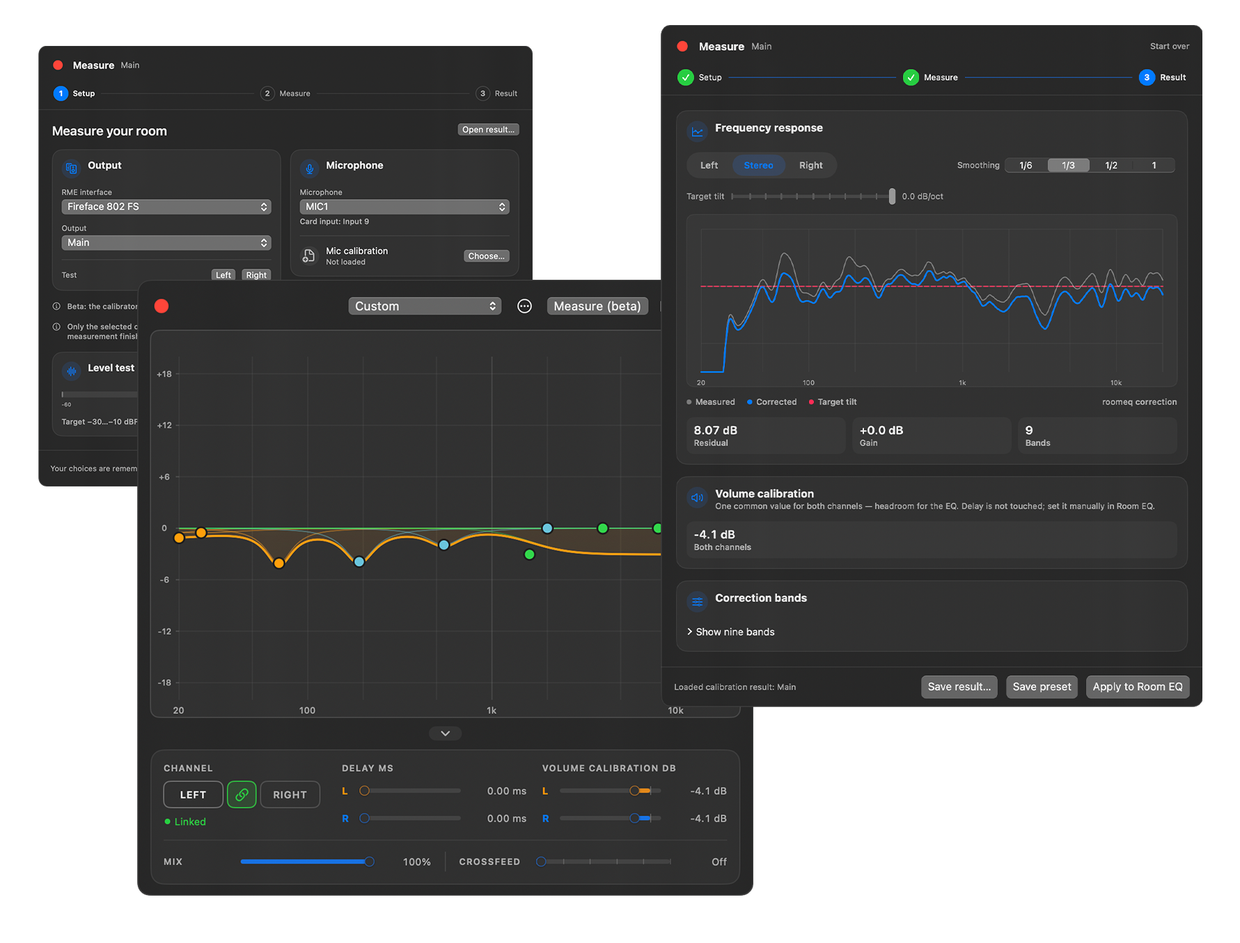
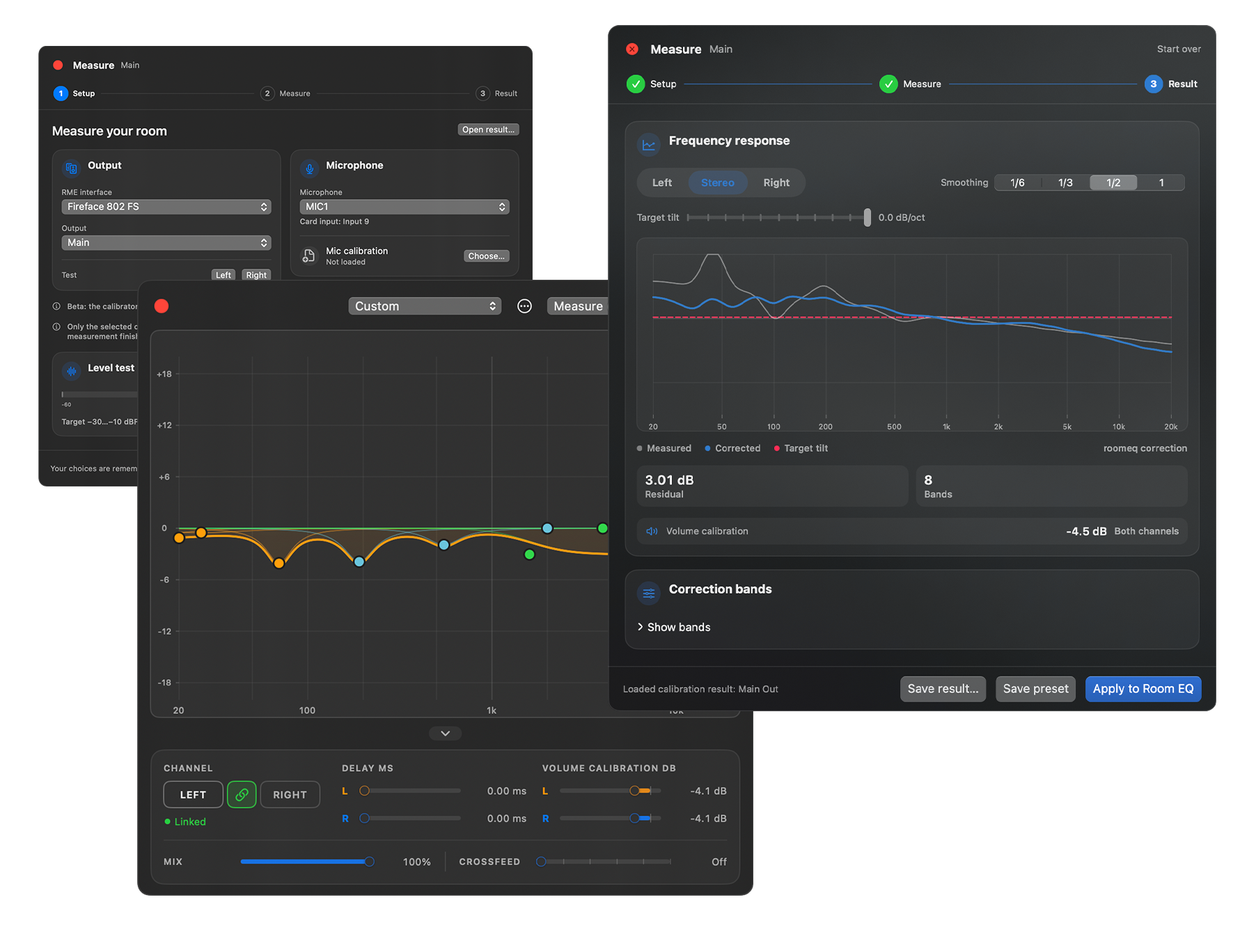
Finish the 4.1 site copy and show the new Measure capture
The German what's-new section was still English: translate it, and localize
the alt texts and ARIA labels that the script never touched. Drop the dead
4.0 strings and the size claims, use the native macOS pane names for
Accessibility, and version the screenshot URL so the new capture replaces
the cached one on the site and in the README.

diff --git a/docs/i18n.js b/docs/i18n.js
@@ -1,5 +1,7 @@
 // RME Control — language switching. English is the source; Russian and German
 // are chosen automatically from the browser and can be switched by hand.
+// Every language carries the whole dictionary: text, alt texts, ARIA labels,
+// the page title and the meta description.
 (function () {
   var dict = {
     en: {
@@ -7,6 +9,7 @@
       "meta.desc": "Free, open-source macOS menu bar control for RME interfaces: TotalMix volume and output switching, Room EQ, room calibration, headphone presets, input and output processing.",
       "nav.new": "What's new", "nav.screens": "Screens",
       "nav.features": "Features", "nav.install": "Install", "nav.site": "Website", "nav.download": "Download 4.1",
+      "nav.sections": "Sections", "nav.language": "Language", "nav.menu": "Menu",
       "hero.title": "TotalMix in the menu bar",
       "hero.sub": "Free, open-source control for TotalMix FX: volume and output switching, Room EQ and calibration, headphone presets — from the menu bar.",
       "hero.download": "Download 4.1", "hero.source": "Read the source", "hero.forum": "RME forum",
@@ -15,7 +18,7 @@
       "new.title": "New in version 4.1",
       "new.module.kicker": "Measure",
       "new.module.title": "A module you download",
-      "new.module.text": "Measure is now a separate module: install it from Settings → Modules, remove it to free 82 MB. The app itself is 14 MB.",
+      "new.module.text": "Measure is now a separate module: install it from Settings → Modules.",
       "new.presets.kicker": "Presets",
       "new.presets.title": "The whole app in one preset",
       "new.presets.text": "Presets capture channels, equalizers, dynamics, Room EQ, faders and Control Room buttons and restore all of it. Export to a file, import on another Mac.",
@@ -28,22 +31,14 @@
       "new.measure11.kicker": "Measure 1.1",
       "new.measure11.title": "Measurement engine update",
       "new.measure11.text": "Clear error handling, a smoother measurement flow and an algorithm aligned with the engine author's recommendations.",
-      "new.eq.kicker": "Room EQ",
-      "new.eq.title": "Fully carried over from TotalMix",
-      "new.eq.text": "Nine bands on every output, with Mix and Crossfeed right inside the Room EQ window.",
-      "new.hp.kicker": "Headphones",
-      "new.hp.title": "Presets for popular headphones",
-      "new.hp.text": "A large library of presets for the most popular headphones. Pick a model and the curve lands in Room EQ.",
-      "new.stat.brands": "brands",
-      "new.stat.models": "models",
-      "new.engine.kicker": "Correction engine",
-      "new.engine.title": "Correction system",
-      "new.engine.text": "Measure both speakers, get left, right and stereo corrections and apply them to Room EQ. Save your own calibration presets; microphone calibration files are supported.",
       "screens.eyebrow": "Screens", "screens.title": "What the app looks like",
       "shot.app.name": "RME Control",
       "shot.app": "The mixer in the menu bar, the channel EQ, the compressor and the level window.",
+      "shot.popover.alt": "RME Control menu bar popover",
       "shot.product.name": "Measure and Room EQ",
       "shot.product": "Setup, the measurement, the result and the Room EQ that receives it.",
+      "shot.windows.alt": "RME Control windows",
+      "shot.measure.alt": "Measure setup, Room EQ and the measurement result",
       "features.eyebrow": "Features", "features.title": "Everything in the app",
       "features.lead": "RME Control is a free, open-source macOS utility that controls the TotalMix FX mixer for RME audio interfaces straight from the Mac menu bar. It saves you from opening the main app window for everyday settings.",
       "feat.out.kicker": "Outputs",
@@ -83,6 +78,7 @@
       "specs.languages": "Interface", "specs.languages.v": "14 languages",
       "specs.license": "License", "specs.source": "Source",
       "foot.note": "A free, open-source menu bar controller for TotalMix FX, written in Swift.",
+      "foot.links": "Elsewhere",
       "foot.repo": "Repository", "foot.releases": "Releases", "foot.license": "MIT license",
       "foot.legal": "RME, TotalMix and the RME logo are trademarks of RME Audio AG. This is an independent tool, not affiliated with or endorsed by RME Audio.",
       "foot.credits": "Calibration engines and headphone data:",
@@ -92,6 +88,7 @@
       "meta.desc": "Бесплатное открытое управление TotalMix для RME из строки меню macOS: громкость и переключение выходов, Room EQ, калибровка комнаты, пресеты наушников, обработка входов и выходов.",
       "nav.new": "Что нового", "nav.screens": "Экраны",
       "nav.features": "Возможности", "nav.install": "Установка", "nav.site": "Мой сайт", "nav.download": "Скачать 4.1",
+      "nav.sections": "Разделы", "nav.language": "Язык", "nav.menu": "Меню",
       "hero.title": "TotalMix в строке меню",
       "hero.sub": "Бесплатное открытое управление TotalMix FX: громкость и переключение выходов, Room EQ и калибровка, пресеты наушников — из строки меню.",
       "hero.download": "Скачать 4.1", "hero.source": "Исходный код", "hero.forum": "Форум RME",
@@ -100,10 +97,10 @@
       "new.title": "Что нового в версии 4.1",
       "new.module.kicker": "Замер",
       "new.module.title": "Модуль, который вы скачиваете",
-      "new.module.text": "Measure теперь отдельный модуль: ставится из Настроек → Модули, удаляется, чтобы освободить 82 МБ. Само приложение — 14 МБ.",
+      "new.module.text": "Measure — теперь отдельный модуль: ставится из Настроек → Модули.",
       "new.presets.kicker": "Пресеты",
       "new.presets.title": "Всё приложение в одном пресете",
-      "new.presets.text": "Пресет сохраняет каналы, эквалайзеры, динамику, Room EQ, фейдеры и кнопки Control Room и возвращает всё это. Экспорт в файл, импорт на другом Mac.",
+      "new.presets.text": "Пресет сохраняет каналы, эквалайзеры, динамику, Room EQ, фейдеры и кнопки Control Room — и возвращает всё это. Экспорт в файл, импорт на другом Mac.",
       "new.ux.kicker": "Интерфейс",
       "new.ux.title": "Улучшенные эквалайзер и Room EQ",
       "new.ux.text": "Плотная ось частот с насечками, считывание под курсором, переключатель компрессор/экспандер, Room EQ перерисовывается примерно в пять раз быстрее.",
@@ -112,23 +109,15 @@
       "new.expander.text": "Dynamics переключается между компрессором и экспандером: своя кривая и родные поля экспандера из TotalMix.",
       "new.measure11.kicker": "Measure 1.1",
       "new.measure11.title": "Обновление движка замера",
-      "new.measure11.text": "Понятная обработка ошибок, плавнее сценарий замера и алгоритм измерения, приведённый к рекомендациям автора движка.",
-      "new.eq.kicker": "Room EQ",
-      "new.eq.title": "Полностью перенесён из TotalMix",
-      "new.eq.text": "Девять полос на каждый выход, а ручки Mix и Crossfeed теперь прямо в окне Room EQ.",
-      "new.hp.kicker": "Наушники",
-      "new.hp.title": "Пресеты для популярных наушников",
-      "new.hp.text": "Большая библиотека пресетов для самых популярных наушников. Выбрал модель — кривая уже в Room EQ.",
-      "new.stat.brands": "брендов",
-      "new.stat.models": "моделей",
-      "new.engine.kicker": "Движок коррекции",
-      "new.engine.title": "Система коррекции",
-      "new.engine.text": "Измерьте обе колонки, получите коррекцию для левого, правого и стерео и примените её к Room EQ. Свои пресеты калибровки сохраняются, калибровочные файлы микрофонов поддерживаются.",
+      "new.measure11.text": "Понятная обработка ошибок, более плавный сценарий замера и алгоритм измерения, приведённый к рекомендациям автора движка.",
       "screens.eyebrow": "Экраны", "screens.title": "Как это выглядит",
       "shot.app.name": "RME Control",
       "shot.app": "Пульт в строке меню, канальный EQ, компрессор и окно уровней.",
+      "shot.popover.alt": "Поповер RME Control в строке меню",
       "shot.product.name": "Замер и Room EQ",
       "shot.product": "Настройка, замер, результат и Room EQ, в который он попадает.",
+      "shot.windows.alt": "Окна RME Control",
+      "shot.measure.alt": "Настройка замера, Room EQ и результат измерения",
       "features.eyebrow": "Возможности", "features.title": "Всё в приложении",
       "features.lead": "RME Control — бесплатная утилита с открытым исходным кодом для macOS, которая позволяет управлять микшером TotalMix FX для аудиоинтерфейсов RME прямо из строки меню Mac. Она избавляет от необходимости постоянно открывать основное окно программы для базовых настроек.",
       "feat.out.kicker": "Выходы",
@@ -136,7 +125,7 @@
       "feat.out.text": "Громкость и быстрое переключение между выходами с клавиатуры Mac, режимы Mute, Dim и Mono, а также компрессор и 3-полосный эквалайзер на выходных каналах.",
       "feat.eq.kicker": "Room EQ",
       "feat.eq.title": "Room EQ и калибровка",
-      "feat.eq.text": "Полностью перенесён Room EQ из TotalMix для каждого выхода, с задержкой и Crossfeed, плюс мастер калибровки акустики с поддержкой файлов калибровки измерительных микрофонов.",
+      "feat.eq.text": "Room EQ полностью перенесён из TotalMix для каждого выхода, с задержкой и Crossfeed, плюс мастер калибровки акустики с поддержкой файлов калибровки измерительных микрофонов.",
       "feat.hp.kicker": "Наушники",
       "feat.hp.title": "Пресеты для наушников",
       "feat.hp.text": "Встроенная библиотека кривых эквализации для 80 моделей наушников от 25 популярных брендов.",
@@ -151,7 +140,7 @@
       "install.two": "Приложение не нотаризовано: разрешите его один раз в «Конфиденциальность и безопасность». Установщик снимает карантин.",
       "install.three": "Если macOS всё равно не открывает, снимите карантин вручную:",
       "install.cmd.copy": "Скопировать", "install.cmd.copied": "Скопировано",
-      "install.four": "Разрешите Accessibility в том же разделе, чтобы клавиши громкости доходили до TotalMix.",
+      "install.four": "Разрешите «Универсальный доступ» в том же разделе, чтобы клавиши громкости доходили до TotalMix.",
       "install.download": "Скачать установщик", "install.build": "Собрать самому",
       "tm.eyebrow": "TotalMix", "tm.title": "Настройка TotalMix",
       "tm.lead": "Приложение говорит по Global OSC. В TotalMix FX 2.1 или новее:",
@@ -167,7 +156,8 @@
       "specs.arch": "Архитектура", "specs.arch.v": "arm64 и x86_64, одна универсальная сборка",
       "specs.languages": "Интерфейс", "specs.languages.v": "14 языков",
       "specs.license": "Лицензия", "specs.source": "Исходники",
-      "foot.note": "Бесплатный открытый пульт для TotalMix FX в строке меню, на Swift.",
+      "foot.note": "Бесплатный пульт для TotalMix FX в строке меню, написан на Swift с открытым исходным кодом.",
+      "foot.links": "Другие ссылки",
       "foot.repo": "Репозиторий", "foot.releases": "Релизы", "foot.license": "Лицензия MIT",
       "foot.legal": "RME, TotalMix и логотип RME — товарные знаки RME Audio AG. Это независимый инструмент, не связанный с RME Audio.",
       "foot.credits": "Движки калибровки и база наушников:",
@@ -175,30 +165,38 @@
     de: {
       "meta.title": "RME Control — TotalMix in der Menüleiste",
       "meta.desc": "Kostenlose Open-Source-Steuerung für TotalMix FX aus der macOS-Menüleiste: Lautstärke und Ausgangswechsel, Room EQ, Raumkalibrierung, Kopfhörer-Presets, Ein- und Ausgangsbearbeitung.",
-      "nav.new": "Neu", "nav.screens": "Bildschirme",
-      "nav.features": "Funktionen", "nav.install": "Installation", "nav.site": "Meine Seite", "nav.download": "Laden 4.1",
+      "nav.new": "Neuerungen", "nav.screens": "Bildschirme",
+      "nav.features": "Funktionen", "nav.install": "Installation", "nav.site": "Meine Seite", "nav.download": "4.1 laden",
+      "nav.sections": "Bereiche", "nav.language": "Sprache", "nav.menu": "Menü",
       "hero.title": "TotalMix in der Menüleiste",
       "hero.sub": "Kostenlose Open-Source-Steuerung für TotalMix FX: Lautstärke und Ausgangswechsel, Room EQ und Kalibrierung, Kopfhörer-Presets — aus der Menüleiste.",
-      "hero.download": "Laden 4.1", "hero.source": "Quellcode", "hero.forum": "RME-Forum",
+      "hero.download": "4.1 laden", "hero.source": "Quellcode", "hero.forum": "RME-Forum",
       "hero.note": "Global OSC, TotalMix 2.1 oder neuer. macOS 14+, Apple Silicon und Intel.",
       "new.eyebrow": "Version 4.1",
       "new.title": "Neu in Version 4.1",
-      "new.eq.kicker": "Room EQ",
-      "new.eq.title": "Vollständig aus TotalMix übernommen",
-      "new.eq.text": "Neun Bänder an jedem Ausgang, mit Mix und Crossfeed direkt im Room-EQ-Fenster.",
-      "new.hp.kicker": "Kopfhörer",
-      "new.hp.title": "Presets für beliebte Kopfhörer",
-      "new.hp.text": "Eine große Preset-Bibliothek für die beliebtesten Kopfhörer. Modell wählen — die Kurve liegt in Room EQ.",
-      "new.stat.brands": "Marken",
-      "new.stat.models": "Modelle",
-      "new.engine.kicker": "Korrektur-Engine",
-      "new.engine.title": "Korrektursystem",
-      "new.engine.text": "Beide Lautsprecher messen, Korrekturen für links, rechts und Stereo erhalten und auf Room EQ anwenden. Eigene Kalibrier-Presets und Mikrofon-Kalibrierdateien werden unterstützt.",
+      "new.module.kicker": "Messung",
+      "new.module.title": "Ein Modul zum Herunterladen",
+      "new.module.text": "Measure ist jetzt ein eigenes Modul: Installieren Sie es unter Einstellungen → Module.",
+      "new.presets.kicker": "Presets",
+      "new.presets.title": "Die ganze App in einem Preset",
+      "new.presets.text": "Ein Preset erfasst Kanäle, Equalizer, Dynamik, Room EQ, Fader und Control-Room-Tasten — und stellt alles wieder her. In eine Datei exportieren, auf einem anderen Mac importieren.",
+      "new.ux.kicker": "Oberfläche",
+      "new.ux.title": "Besserer Equalizer und Room EQ",
+      "new.ux.text": "Eine dichtere Frequenzachse mit Markierungen, Live-Werte unter dem Cursor, ein Umschalter für Kompressor/Expander — Room EQ zeichnet etwa fünfmal schneller neu.",
+      "new.expander.kicker": "Dynamik",
+      "new.expander.title": "Expander",
+      "new.expander.text": "Dynamik schaltet zwischen Kompressor und Expander um, mit passender Kurve und den Expander-Parametern aus TotalMix.",
+      "new.measure11.kicker": "Measure 1.1",
+      "new.measure11.title": "Update der Mess-Engine",
+      "new.measure11.text": "Klare Fehlerbehandlung, ein ruhigerer Messablauf und ein Algorithmus nach den Empfehlungen des Engine-Autors.",
       "screens.eyebrow": "Bildschirme", "screens.title": "So sieht die App aus",
       "shot.app.name": "RME Control",
       "shot.app": "Der Mixer in der Menüleiste, der Kanal-EQ, der Kompressor und das Pegelfenster.",
+      "shot.popover.alt": "RME-Control-Popover in der Menüleiste",
       "shot.product.name": "Messung und Room EQ",
       "shot.product": "Setup, die Messung, das Ergebnis und der Room EQ, der es aufnimmt.",
+      "shot.windows.alt": "RME-Control-Fenster",
+      "shot.measure.alt": "Mess-Setup, Room EQ und das Messergebnis",
       "features.eyebrow": "Funktionen", "features.title": "Alles in der App",
       "features.lead": "RME Control ist ein kostenloses Open-Source-Werkzeug für macOS, das den TotalMix-FX-Mixer für RME-Interfaces direkt aus der Menüleiste steuert. Für alltägliche Einstellungen muss das Hauptfenster nicht mehr geöffnet werden.",
       "feat.out.kicker": "Ausgänge",
@@ -221,7 +219,7 @@
       "install.two": "Nicht notarisiert: einmal unter Datenschutz und Sicherheit erlauben. Der Installer entfernt das Quarantäne-Flag.",
       "install.three": "Wenn macOS es weiterhin blockiert, die App aus der Quarantäne nehmen:",
       "install.cmd.copy": "Kopieren", "install.cmd.copied": "Kopiert",
-      "install.four": "Accessibility im selben Bereich erlauben, damit die Lautstärketasten TotalMix erreichen.",
+      "install.four": "Erlauben Sie Bedienungshilfen im selben Bereich, damit die Lautstärketasten TotalMix erreichen.",
       "install.download": "Installer laden", "install.build": "Selbst bauen",
       "tm.eyebrow": "TotalMix", "tm.title": "TotalMix einrichten",
       "tm.lead": "Die App spricht Global OSC. In TotalMix FX 2.1 oder neuer:",
@@ -232,12 +230,13 @@
       "tm.five": "Peak hold einschalten.",
       "tm.six": "Send all data on start einschalten.",
       "tm.note": "Dann in RME Control Settings → Connection öffnen und dieselben Ports eintragen.",
-      "specs.eyebrow": "Daten", "specs.title": "Auf dem Etikett",
+      "specs.eyebrow": "Technische Daten", "specs.title": "Auf dem Etikett",
       "specs.version": "Version", "specs.system": "System", "specs.system.v": "macOS 14 Sonoma oder neuer",
       "specs.arch": "Architektur", "specs.arch.v": "arm64 und x86_64, ein Universal-Build",
       "specs.languages": "Oberfläche", "specs.languages.v": "14 Sprachen",
       "specs.license": "Lizenz", "specs.source": "Quellcode",
       "foot.note": "Ein kostenloser Open-Source-Menüleisten-Controller für TotalMix FX, in Swift geschrieben.",
+      "foot.links": "Weitere Links",
       "foot.repo": "Repository", "foot.releases": "Releases", "foot.license": "MIT-Lizenz",
       "foot.legal": "RME, TotalMix und das RME-Logo sind Marken der RME Audio AG. Dies ist ein unabhängiges Werkzeug, nicht mit RME Audio verbunden.",
       "foot.credits": "Kalibrierungs-Engines und Kopfhörer-Datenbank:",
@@ -273,6 +272,14 @@
     document.querySelectorAll("[data-i18n]").forEach(function (el) {
       var key = el.getAttribute("data-i18n");
       if (d[key]) el.textContent = d[key];
+    });
+    // Alt texts and ARIA labels are copy as well: data-i18n-alt,
+    // data-i18n-aria-label and data-i18n-title hold the key for the attribute.
+    ["alt", "aria-label", "title"].forEach(function (attr) {
+      document.querySelectorAll("[data-i18n-" + attr + "]").forEach(function (el) {
+        var key = el.getAttribute("data-i18n-" + attr);
+        if (d[key]) el.setAttribute(attr, d[key]);
+      });
     });
     document.querySelectorAll(".lang button").forEach(function (b) {
       var on = b.getAttribute("data-lang") === lang;

diff --git a/docs/index.html b/docs/index.html
@@ -20,20 +20,20 @@
 <header class="nav">
   <div class="nav__inner">
     <a class="nav__brand" href="#top">RME Control</a>
-    <nav class="nav__links" aria-label="Sections">
+    <nav class="nav__links" aria-label="Sections" data-i18n-aria-label="nav.sections">
       <a href="#features" data-i18n="nav.features">Features</a>
       <a href="#new" data-i18n="nav.new">What's new</a>
       <a href="#screens" data-i18n="nav.screens">Screens</a>
       <a href="#install" data-i18n="nav.install">Install</a>
       <a href="https://repentov-dev.github.io/repentov-site/" data-i18n="nav.site" target="_blank" rel="noopener">Website</a>
-      <span class="lang" role="group" aria-label="Language">
-        <button type="button" data-lang="en">EN</button>
-        <button type="button" data-lang="ru">RU</button>
-        <button type="button" data-lang="de">DE</button>
+      <span class="lang" role="group" aria-label="Language" data-i18n-aria-label="nav.language">
+        <button type="button" data-lang="en" lang="en" aria-label="English">EN</button>
+        <button type="button" data-lang="ru" lang="ru" aria-label="Русский">RU</button>
+        <button type="button" data-lang="de" lang="de" aria-label="Deutsch">DE</button>
       </span>
       <a class="nav__cta" href="https://github.com/repentov-dev/rme-control/releases/download/v4.1/RME-Control-4.1.pkg" data-i18n="nav.download">Download 4.1</a>
     </nav>
-    <button class="nav__burger" type="button" aria-label="Menu" aria-expanded="false">
+    <button class="nav__burger" type="button" aria-label="Menu" aria-expanded="false" data-i18n-aria-label="nav.menu">
       <span></span><span></span>
     </button>
   </div>
@@ -54,7 +54,7 @@
     </div>
     <div class="hero__stage">
       <div class="hero__tilt">
-        <img class="hero__shot" src="./screenshots/popover-window.png" width="560" height="993" alt="RME Control popover">
+        <img class="hero__shot" src="./screenshots/popover-window.png" width="560" height="993" alt="RME Control popover" data-i18n-alt="shot.popover.alt">
       </div>
     </div>
   </section>
@@ -103,7 +103,7 @@
       <article class="new__row" data-reveal style="--i:0">
         <p class="chapter__kicker" data-i18n="new.module.kicker">Measure</p>
         <h3 data-i18n="new.module.title">A module you download</h3>
-        <p data-i18n="new.module.text">Measure is now a separate module: install it from Settings → Modules, remove it to free 82 MB. The app itself is 14 MB.</p>
+        <p data-i18n="new.module.text">Measure is now a separate module: install it from Settings → Modules.</p>
       </article>
       <article class="new__row" data-reveal style="--i:1">
         <p class="chapter__kicker" data-i18n="new.presets.kicker">Presets</p>
@@ -135,7 +135,7 @@
     </div>
 
     <figure class="shot shot--wide shot--product" data-reveal>
-      <img src="./screenshots/app.png" width="1156" height="752" alt="RME Control windows">
+      <img src="./screenshots/app.png" width="1156" height="752" alt="RME Control windows" data-i18n-alt="shot.windows.alt">
       <figcaption>
         <span class="shot__name" data-i18n="shot.app.name">RME Control</span>
         <span class="shot__text" data-i18n="shot.app">The mixer in the menu bar, the channel EQ, the compressor and the level window.</span>
@@ -143,7 +143,7 @@
     </figure>
 
     <figure class="shot shot--wide shot--product" data-reveal>
-      <img src="./screenshots/measure.png" width="1781" height="1355" alt="Measure setup, Room EQ and the measurement result">
+      <img src="./screenshots/measure.png?v=2" width="1781" height="1355" alt="Measure setup, Room EQ and the measurement result" data-i18n-alt="shot.measure.alt">
       <figcaption>
         <span class="shot__name" data-i18n="shot.product.name">Measure and Room EQ</span>
         <span class="shot__text" data-i18n="shot.product">Setup, the measurement, the result and the Room EQ that receives it.</span>
@@ -232,7 +232,7 @@
       <p class="foot__mark">RME Control</p>
       <p class="foot__note" data-i18n="foot.note">A free, open-source menu bar controller for TotalMix FX, written in Swift.</p>
     </div>
-    <nav class="foot__links" aria-label="Elsewhere">
+    <nav class="foot__links" aria-label="Elsewhere" data-i18n-aria-label="foot.links">
       <a href="https://github.com/repentov-dev/rme-control" data-i18n="foot.repo">Repository</a>
       <a href="https://github.com/repentov-dev/rme-control/releases" data-i18n="foot.releases">Releases</a>
       <a href="https://github.com/repentov-dev/rme-control/blob/main/LICENSE" data-i18n="foot.license">MIT license</a>
@@ -250,7 +250,7 @@
   </div>
 </footer>
 
-<script src="./i18n.js?v=10" defer></script>
+<script src="./i18n.js?v=12" defer></script>
 <script src="./apple.js?v=5" defer></script>
 </body>
 </html>

diff --git a/README.md b/README.md
@@ -32,7 +32,7 @@ Works via Global OSC only with TotalMix 2.1+.
 Beta: the calibrator was tested on the Fireface 802 FS and may behave differently on other interfaces.
 
 <p align="center">
-  <img src="docs/screenshots/measure.png" width="760" alt="Measure setup, Room EQ and the measurement result">
+  <img src="docs/screenshots/measure.png?v=2" width="760" alt="Measure setup, Room EQ and the measurement result">
 </p>
 
 ## Requirements
@@ -53,7 +53,7 @@ cd rme-control
 compiler works), copies resources and translations, ad-hoc signs the bundle and installs
 `/Applications/RME Control.app`. Progress is reported as `[1/5]` … `[5/5]`.
 
-The measurement engines (`roomeq`, `sotf-capture`, 82 MB together) are not part of the repository:
+The measurement engines (`roomeq`, `sotf-capture`) are not part of the repository:
 they ship as a GitHub release and are downloaded by the app from **Settings → Modules** (or by the
 **Load** button in Room EQ). Keep them in `RME Control/Resources/` if you want a self-contained build,
 or start from `./build.sh --no-module` — the build stops bundling them automatically when they are absent.
